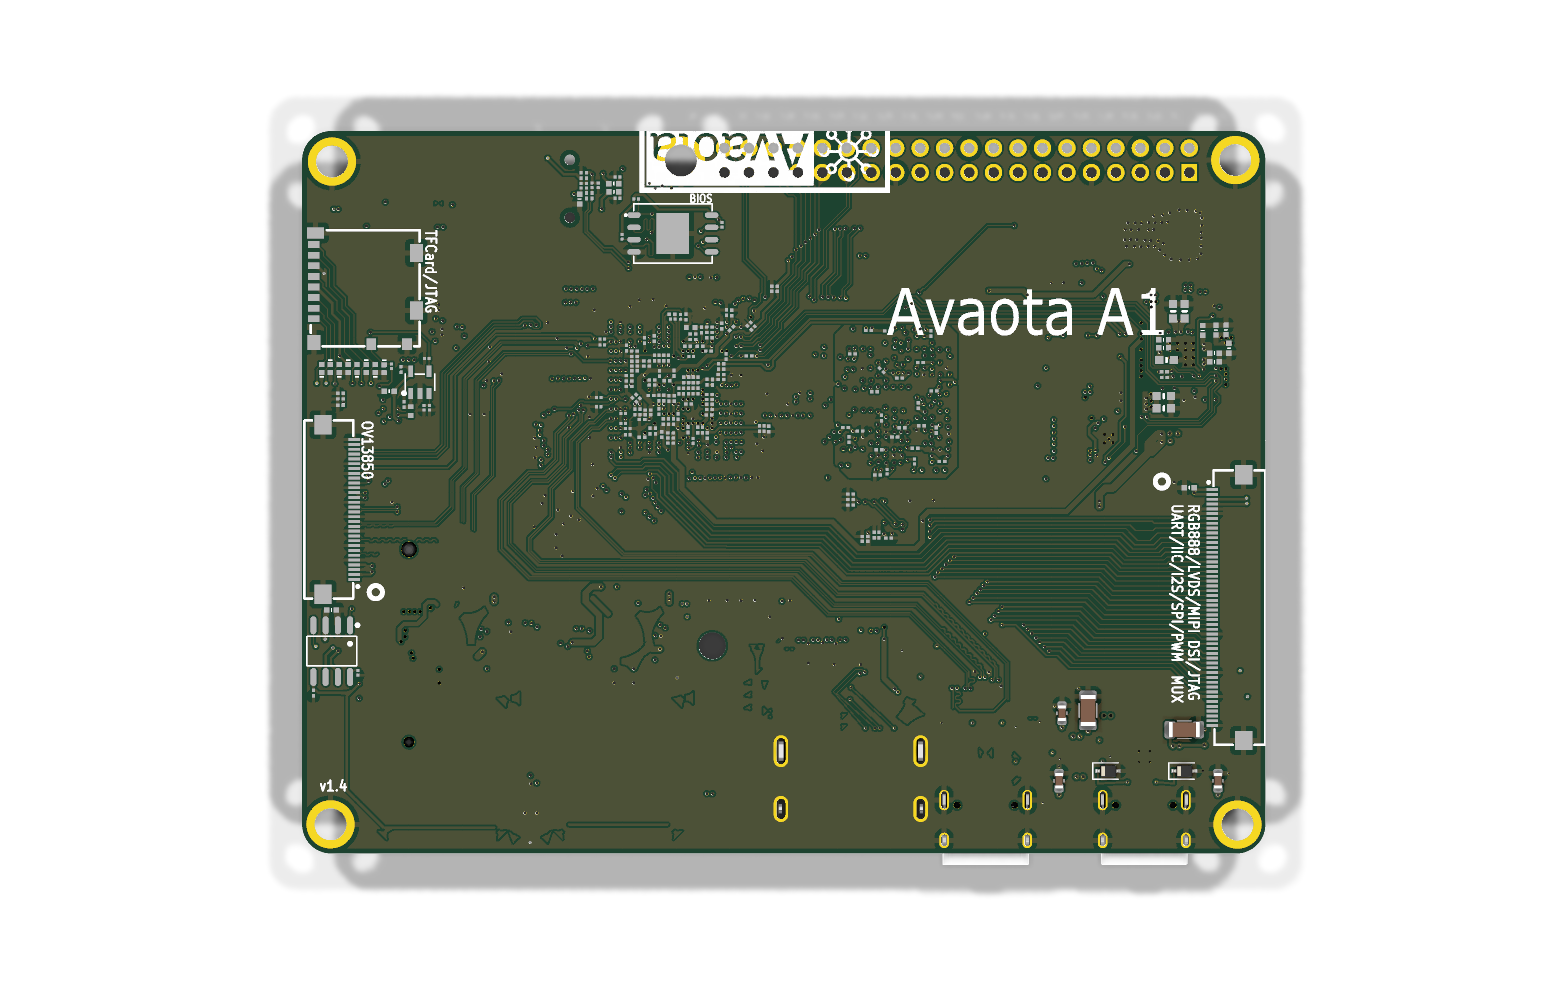
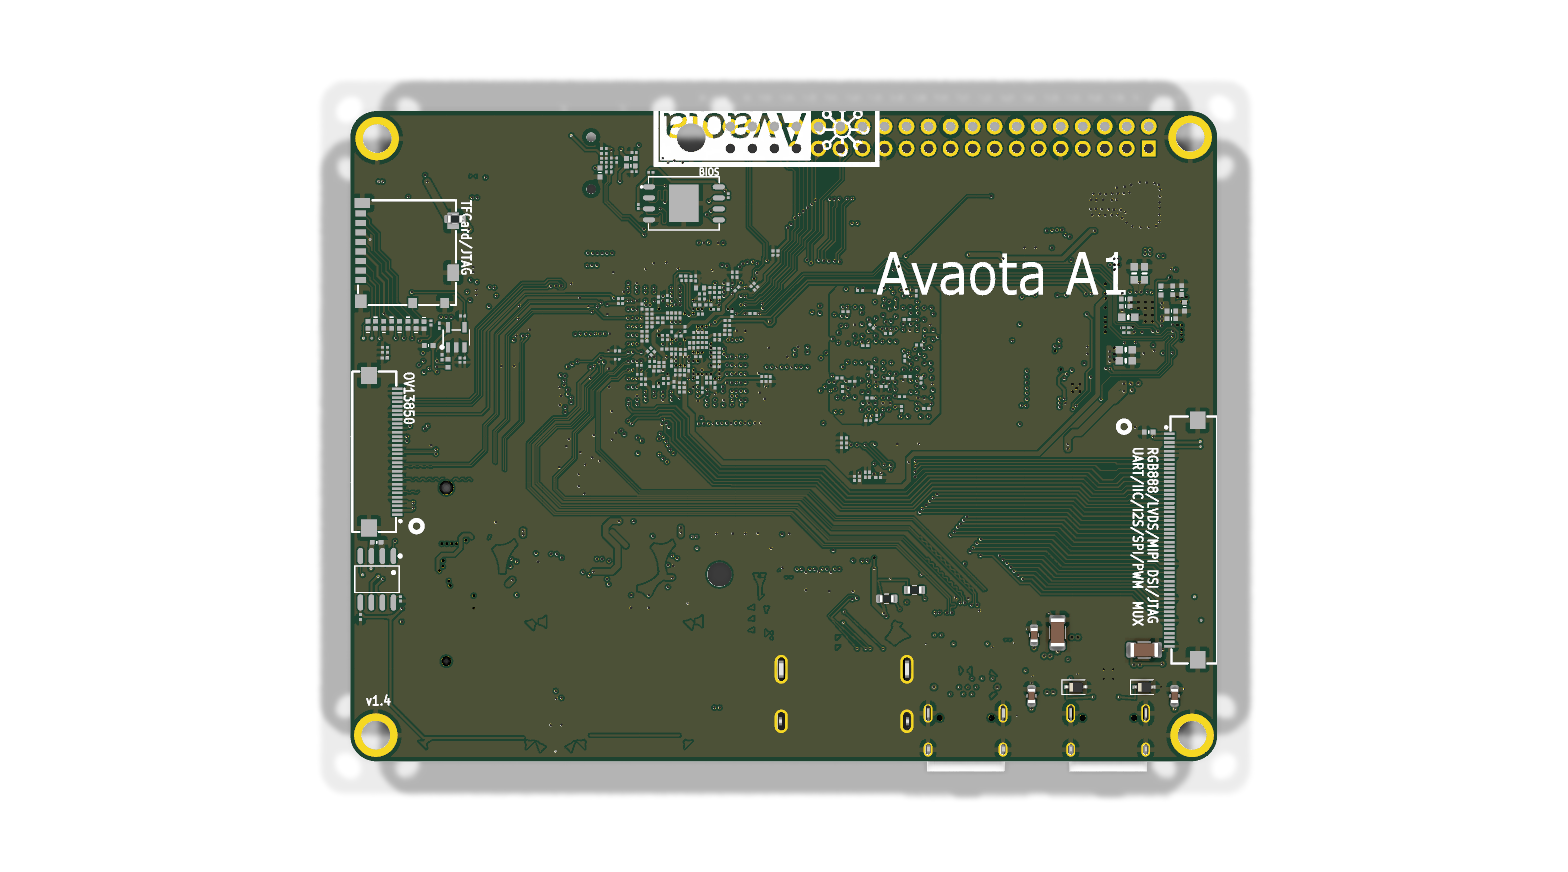
Refresh PCB views for routed J6

Changed region(s): [[0.1562, 0.0929, 0.8438, 0.9289], [0.4688, 0.7431, 0.5, 0.7741]]

diff --git a/hardware/android-box-rebuild/README.md b/hardware/android-box-rebuild/README.md
@@ -27,7 +27,10 @@ approximately 7.19 V UVLO and 10.87 V OVLO window. The PDO2-qualified Q1001 gate
 U1001 support network remain schematic-only. J6 now has a matching USB-C host
 schematic: 56 kOhm Rp resistors advertise default current, while the design reuses
 the Avaota U17 SY6280AAC switched VBUS circuit and D13 USB2 ESD array. Its PCB
-placement and routing are the next local pass. R1010/R1011 have been moved beside
+placement and routing are now implemented: R1103 hands the retained current-limited
+VBUS output to both connector power pins, R1101/R1102 drive CC1/CC2, and the reversible
+USB2 pins route through D13. The focused route check reports 0.649 mm D+/D- mismatch
+and no checked 0.20 mm local clearance violations. R1010/R1011 have been moved beside
 the HDMI support parts, preserving the eFuse OVLO threshold while freeing the J6
 reversible USB2 fanout corridor. Both Ethernet PHY component groups have now been removed from the
 PCB and the resulting area contains a staged M-key M.2 2230 NVMe connector and
@@ -60,7 +63,7 @@ C720629 footprint and 3D model.
 | CPU PMIC | AXP323 | Reuse the Avaota A1 core power sheet and sequencing |
 | Video | HCTL HDMI-01 / JLCPCB C2906135, horizontal right-angle HDMI Type-A | Exact footprint and 3D model placed; TMDS/DDC/CEC/HPD/+5 V locally routed; verify enclosure and solve 100-ohm geometry against the released stack-up |
 | Power | XUNPU C720629 + STUSB4500QTR C2678061 + TPS259470LRPWR C3662793 | 9 V / 3 A PDO2 into the existing protected input; default 5 V and inputs above about 10.9 V are hardware-blocked; program/verify U1001 NVM before assembly release |
-| Accessory port | One USB 2.0 host USB-C replacing the dual USB-A | Reuse one existing host pair; add Rp, ESD and a current-limited VBUS switch |
+| Accessory port | One USB 2.0 host USB-C replacing the dual USB-A | J6, 56 kOhm Rp, D13 ESD and retained U17 current-limited VBUS switch are placed and locally routed; validate with the final stack-up and whole-board DRC |
 | Debug | UART, JTAG, FEL and reset | Retain accessible pads or headers on prototypes |
 | Excluded | Ethernet, Wi-Fi, SD, camera, audio and panel display | Ethernet and external eDP PCB circuits removed; prune other unused circuits one subsystem at a time |
 
@@ -85,6 +88,8 @@ hide unfinished control logic:
 
 ![USB-C PD logical power path](power-path.svg)
 
+![J6 USB-C host logical path](usb-host-path.svg)
+
 ## Project files
 
 - [`android-box-rebuild.kicad_pro`](android-box-rebuild.kicad_pro) - open this file in KiCad to load the Rev-P1 project.
@@ -108,8 +113,11 @@ hide unfinished control logic:
 - [`scripts/route_usbc_pd_window.py`](scripts/route_usbc_pd_window.py) - places and routes the U1002 UVLO/OVLO voltage-window dividers.
 - [`scripts/relocate_j5_ovlo_for_j6.py`](scripts/relocate_j5_ovlo_for_j6.py) - moves the unchanged OVLO divider values out of the J6 high-speed fanout corridor and reconnects them to U1002.
 - [`scripts/check_j5_local.py`](scripts/check_j5_local.py) - verifies critical J5 connectivity and 0.20 mm local copper clearance on the used outer/inner layers.
+- [`scripts/route_usbc_host.py`](scripts/route_usbc_host.py) - places R1101-R1103 and reproducibly routes J6 switched VBUS, Rp/CC and reversible USB2 through the retained U17/D13 circuitry.
+- [`scripts/check_j6_local.py`](scripts/check_j6_local.py) - verifies J6/U17/D13 critical connectivity, USB2 length mismatch and focused 0.20 mm local copper clearance across all used copper layers.
 - [`renders/pcb-top.png`](renders/pcb-top.png), [`renders/pcb-bottom.png`](renders/pcb-bottom.png) and [`renders/pcb-ports.png`](renders/pcb-ports.png) - regenerated full-board and connector-edge 3D views after each routed milestone.
 - [`power-path.svg`](power-path.svg) - logical USB-C PD power/control state, updated when that design changes.
+- [`usb-host-path.svg`](usb-host-path.svg) - logical J6 switched-power, CC advertisement and USB2 data path.
 - [`nvme-migration.md`](nvme-migration.md) - J7 pin map, placement, sources and remaining NVMe design blockers.
 - [`conversion-audit.md`](conversion-audit.md) - source provenance, import repairs, validation counts and conversion backlog.
 - [`connector-migration.md`](connector-migration.md) - current connector/net mapping and the controlled same-edge conversion sequence.
@@ -130,8 +138,8 @@ hide unfinished control logic:
    manufacturing constraints; keep a frozen hash of the original conversion.
 2. Freeze measured enclosure datums for the same-edge USB-C power, USB-C host and HDMI row.
 3. Remove unused external peripherals without changing core nets or power sequencing.
-4. Finish the J5 eFuse/control passive fanout, adapt the single USB host protection,
-   and implement the M.2 3.3 V regulator/switch plus PCIe clock and control nets on
+4. Finish the J5 PDO2/control support network and implement the M.2 3.3 V
+   regulator/switch plus PCIe clock and control nets on
    the schematic.
 5. Select exact SoC, DRAM, eMMC and PMIC MPNs, verify the selected connector drawings,
    and agree with JLCPCB how the fine-pitch BGAs and any consigned parts will be handled.
